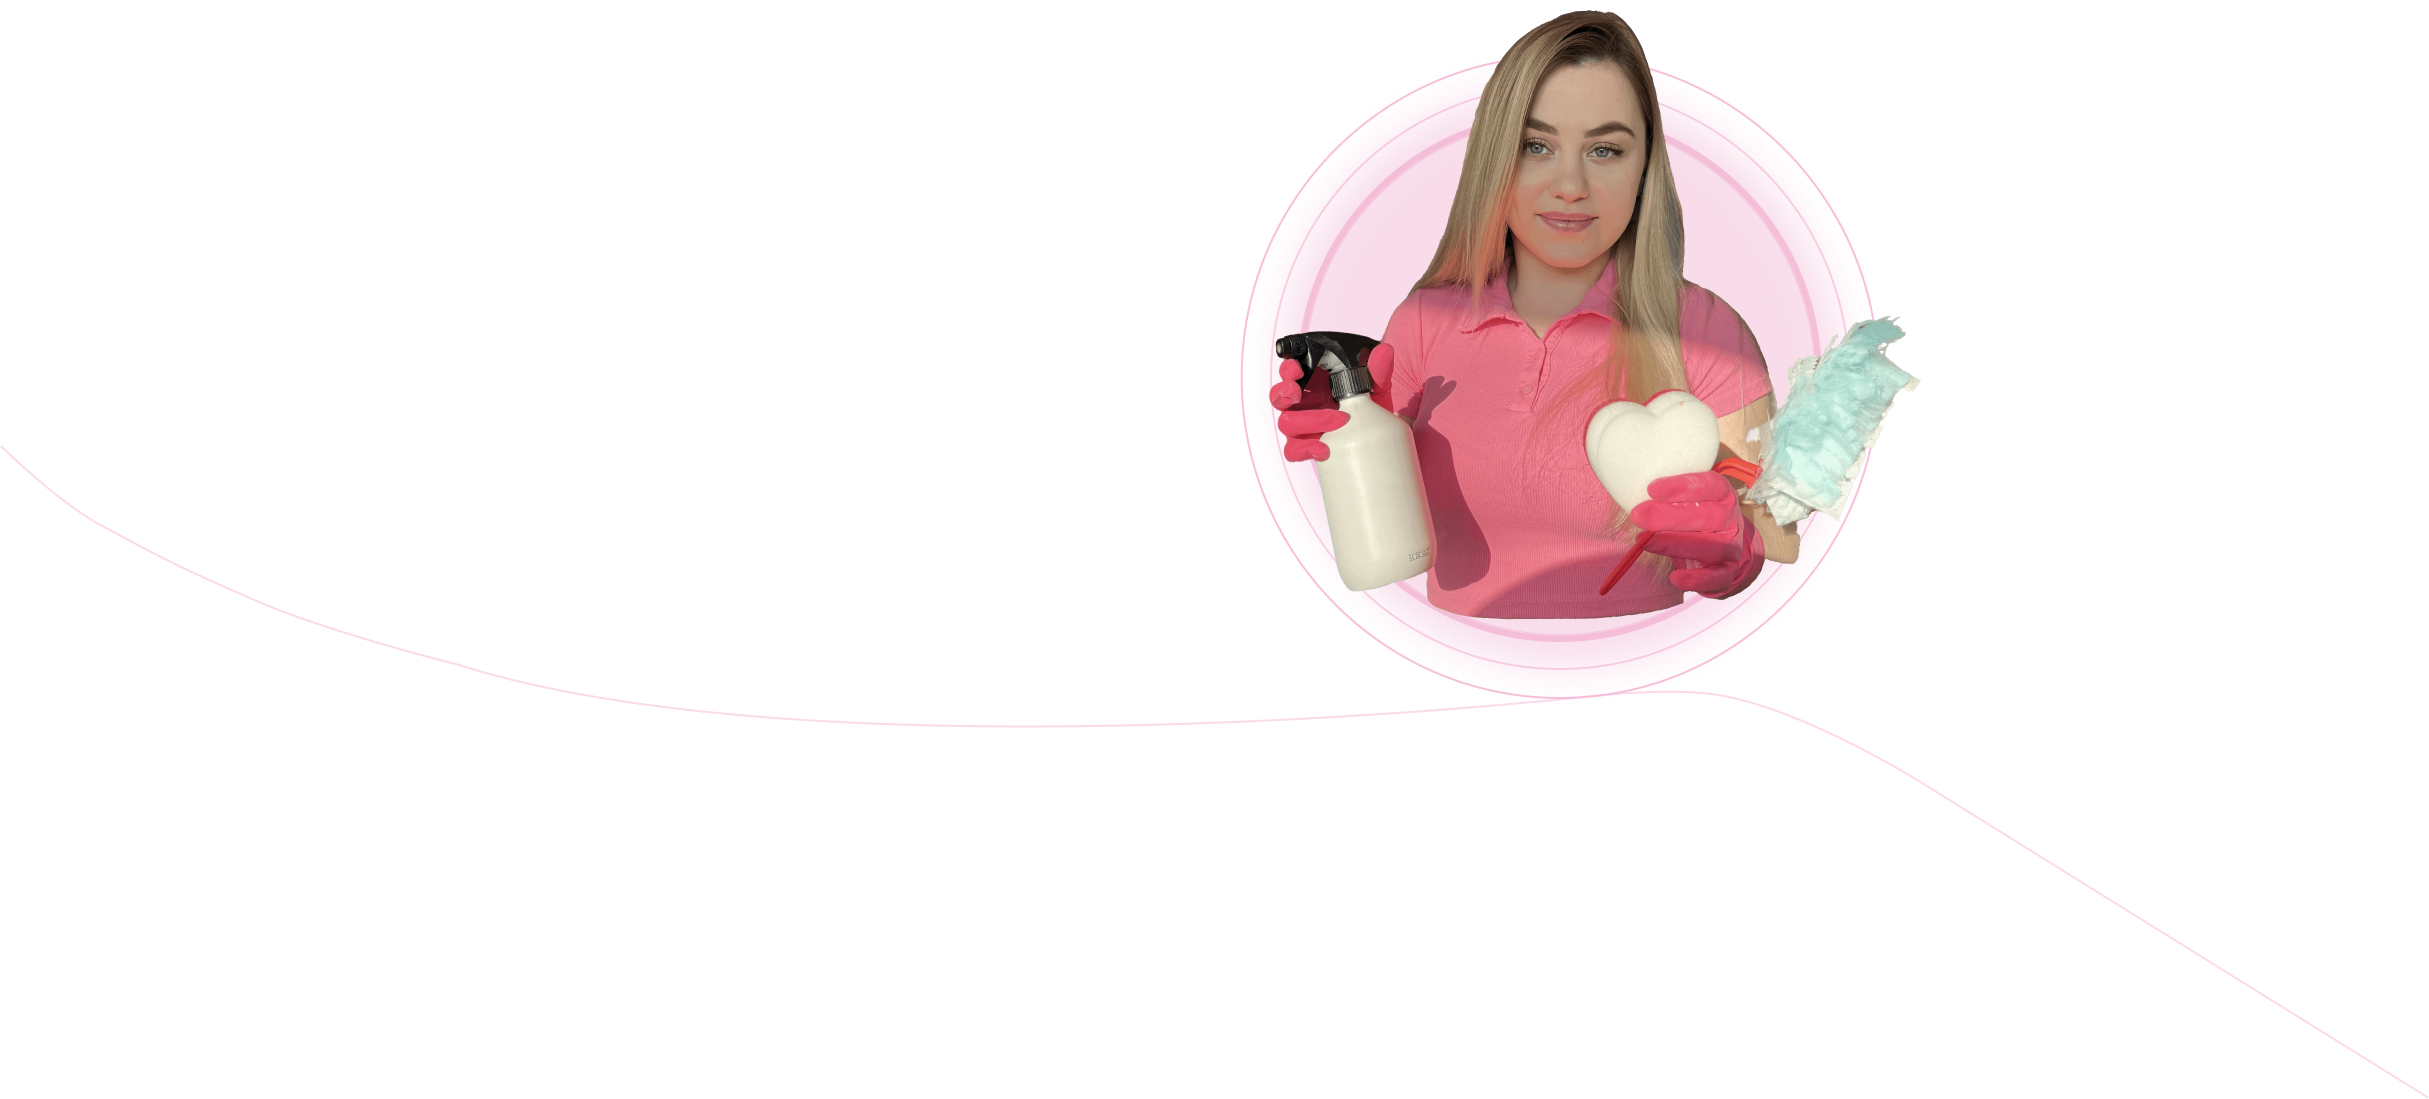
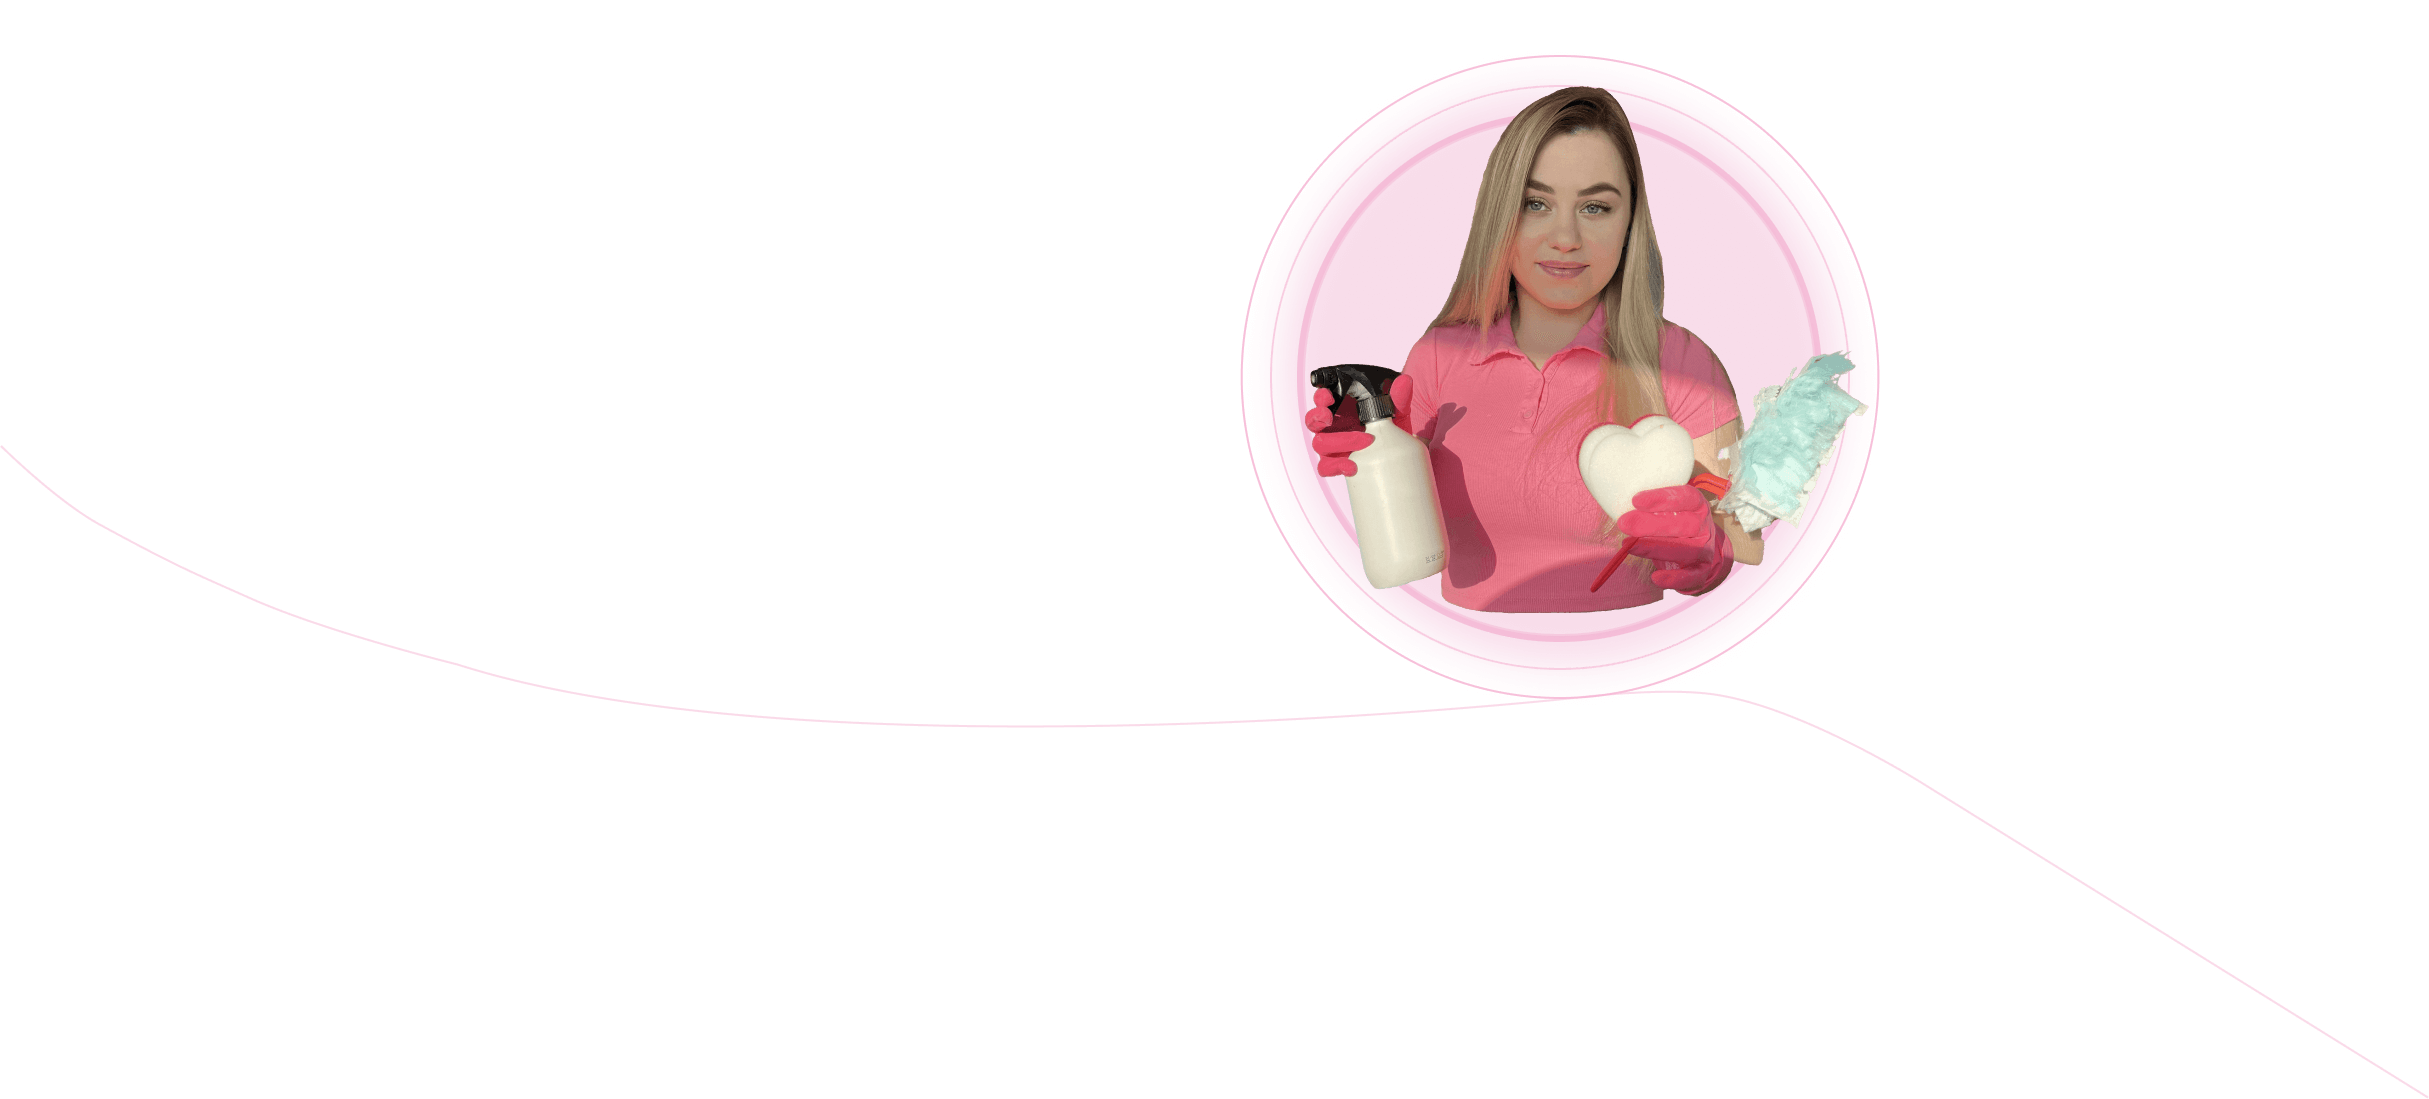
feat: replace hero-image

Changed region(s): [[0.5249, 0.0, 0.8028, 0.5878]]

diff --git a/src/styles/navbar.scss b/src/styles/navbar.scss
@@ -15,6 +15,13 @@
     box-shadow: 0px 4px 36px rgba(0, 0, 0, 0.05);
     backdrop-filter: blur(6px);
     transition: top .5s;
+    z-index: 10;
+
+    @include small-mobile-up {
+        width: calc(100% - 2rem);
+        padding: 1rem;
+        max-height: 2rem;
+    }
 
     @include small-desktop-up {
         width: calc(100% - 10rem);
@@ -34,6 +41,12 @@
     &__logo {
         width: 7.5rem;
         height: 4.2rem;
+        z-index: 10;
+
+        @include small-mobile-up {
+            width: 4.8rem;
+            height: 2.7rem;
+        }
 
         @include small-desktop-up {
             width: 6rem;
@@ -48,6 +61,11 @@
     grid-template-columns: repeat(6, minmax(min-content, 10rem));
     justify-items: center;
     align-items: center;
+
+
+    @include small-mobile-up {
+        display: none;
+    }
 
     @include small-desktop-up {
         max-width: 36rem;
@@ -136,4 +154,163 @@
             color: $color-white;
         }
     }
+}
+
+.mobile-nav {
+    display: flex;
+    flex-flow: column nowrap;
+    justify-content: center;
+    align-items: center;
+    width: 100%;
+    height: 100vh;
+    position: absolute;
+    top: 0;
+    left: 0;
+    transition: transform 0.3s ease-in-out;
+    background-color: rgba($color-white, 0.9);
+    z-index: 9;
+    // should prevent page from scrolling on mobile
+    touch-action: none;
+
+    &.is-active {
+        transform: translateY(100%);
+    }
+
+    &__link {
+        font-size: 1.6rem;
+        color: $color-grey;
+        font-weight: 600;
+        text-decoration: none;
+        padding: 1rem;
+
+        &--button {}
+    }
+
+}
+
+// Hamburger styles
+
+.hamburger {
+    display: inline-block;
+    cursor: pointer;
+    transition-property: opacity, filter;
+    transition-duration: 0.15s;
+    transition-timing-function: linear;
+    font: inherit;
+    color: $color-grey;
+    text-transform: none;
+    background-color: transparent;
+    border: 0;
+    margin: 0;
+    overflow: visible;
+    z-index: 10;
+
+    &:hover {
+        opacity: 0.7;
+    }
+
+    &.is-active {
+
+        &:hover {
+            opacity: 0.7;
+        }
+
+        & .hamburger-inner,
+        .hamburger-inner::before,
+        .hamburger-inner::after {
+            display: block;
+            top: 50%;
+            margin-top: -2px;
+            width: 2rem;
+            height: 4px;
+            background-color: $color-pink;
+            border-radius: 4px;
+            position: absolute;
+            transition-property: transform;
+            transition-duration: 0.15s;
+            transition-timing-function: ease;
+            background-color: $color-grey;
+        }
+    }
+}
+
+
+.hamburger-box {
+    width: 2rem;
+    height: 24px;
+    display: inline-block;
+    position: relative;
+}
+
+.hamburger-inner {
+    display: block;
+    top: 50%;
+    margin-top: -2px;
+    width: 2rem;
+    height: 4px;
+    background-color: $color-pink;
+    border-radius: 4px;
+    position: absolute;
+    transition-property: transform;
+    transition-duration: 0.15s;
+    transition-timing-function: ease;
+
+    &::before {
+        content: "";
+        display: block;
+        top: -10px;
+        width: 2rem;
+        height: 4px;
+        background-color: $color-pink;
+        border-radius: 4px;
+        position: absolute;
+        transition-property: transform;
+        transition-duration: 0.15s;
+        transition-timing-function: ease;
+    }
+
+    &::after {
+        content: "";
+        display: block;
+        bottom: -10px;
+        width: 2rem;
+        height: 4px;
+        background-color: $color-pink;
+        border-radius: 4px;
+        position: absolute;
+        transition-property: transform;
+        transition-duration: 0.15s;
+        transition-timing-function: ease;
+    }
+}
+
+.hamburger--spin .hamburger-inner {
+    transition-duration: 0.22s;
+    transition-timing-function: cubic-bezier(0.55, 0.055, 0.675, 0.19);
+}
+
+.hamburger--spin .hamburger-inner::before {
+    transition: top 0.1s 0.25s ease-in, opacity 0.1s ease-in;
+}
+
+.hamburger--spin .hamburger-inner::after {
+    transition: bottom 0.1s 0.25s ease-in, transform 0.22s cubic-bezier(0.55, 0.055, 0.675, 0.19);
+}
+
+.hamburger--spin.is-active .hamburger-inner {
+    transform: rotate(225deg);
+    transition-delay: 0.12s;
+    transition-timing-function: cubic-bezier(0.215, 0.61, 0.355, 1);
+}
+
+.hamburger--spin.is-active .hamburger-inner::before {
+    top: 0;
+    opacity: 0;
+    transition: top 0.1s ease-out, opacity 0.1s 0.12s ease-out;
+}
+
+.hamburger--spin.is-active .hamburger-inner::after {
+    bottom: 0;
+    transform: rotate(-90deg);
+    transition: bottom 0.1s ease-out, transform 0.22s 0.12s cubic-bezier(0.215, 0.61, 0.355, 1);
 }

diff --git a/src/styles/hero.scss b/src/styles/hero.scss
@@ -8,6 +8,10 @@
   border-radius: 0.6rem;
   position: relative;
 
+  @include small-mobile-up {
+    margin: 4.6rem 0.6rem;
+  }
+
   @include small-desktop-up {
     margin: 5.6rem 1rem -1rem 1rem;
   }
@@ -25,6 +29,10 @@
   margin-top: -2rem;
   max-width: 40rem;
   z-index: 1;
+
+  @include small-mobile-up {
+    margin: 1rem;
+  }
 
   @include small-desktop-up {
     margin-left: 4rem;
@@ -77,6 +85,11 @@
     line-height: 116%;
     margin: 0;
 
+    @include small-mobile-up {
+      font-size: 2rem;
+      min-width: 10rem;
+    }
+
     @include small-desktop-up {
       font-size: 3rem;
       min-width: 26rem;
@@ -91,6 +104,11 @@
     line-height: 1.8rem;
     color: hsla(280, 2%, 31%, 0.65);
     max-width: 40vw;
+
+    @include small-mobile-up {
+      line-height: 1.4rem;
+      max-width: 60vw;
+    }
 
     @include small-desktop-up {
       line-height: 1.5rem;
@@ -167,6 +185,10 @@
 
 .hero-image {
   position: relative;
+
+  @include small-mobile-up {
+    display: none;
+  }
 
   &__lines {
     width: 160vw;
